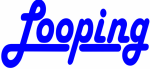
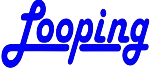
MAJ

Changed region(s): [[0.0, 0.0, 1.0, 0.9855]]

diff --git a/index.html b/index.html
@@ -95,31 +95,31 @@
       <p>Technologies</p>
       <div class="container6">
         <figure>
-          <img class="sizeS" src="images/vscode.jpg" alt="Logo de Visual Studio Code">
+          <img class="sizeS" src="images/vscode.png" alt="Logo de Visual Studio Code">
         </figure>
         <figure>
-          <img class="sizeS" src="images/laragon.jpg" alt="Logo de Laragon">
+          <img class="sizeS" src="images/laragon.png" alt="Logo de Laragon">
         </figure>
         <figure>
-          <img class="sizeS" src="images/figma1.jpg" alt="Logo de Figma">
+          <img class="sizeS" src="images/figma.png" alt="Logo de Figma">
         </figure>
         <figure>
-          <img class="sizeS" src="images/looping.jpg" alt="Logo de Looping">
+          <img class="sizeS" src="images/looping.png" alt="Logo de Looping">
         </figure>
         <figure>
-          <img class="sizeS" src="images/trello.jpg" alt="Logo de Trello">
+          <img class="sizeS" src="images/trello.png" alt="Logo de Trello">
         </figure>
         <figure>
-          <img class="sizeS" src="images/teams.jpg" alt="Logo de Teams">
+          <img class="sizeS" src="images/teams.png" alt="Logo de Teams">
         </figure>
         <figure>
-          <img class="sizeS" src="images/gitgithub.jpg" alt="Logo de Git et de Github">
+          <img class="sizeS" src="images/gitgithub.png" alt="Logo de Git et de Github">
         </figure>
         <figure>
-          <img class="sizeS" src="images/ovh.jpg" alt="Logo de OVH">
+          <img class="sizeS" src="images/ovh.png" alt="Logo de OVH">
         </figure>
         <figure>
-          <img class="sizeS" src="images/webhost.jpg" alt="Logo de 000Webhost">
+          <img class="sizeS" src="images/webhost.png" alt="Logo de 000Webhost">
         </figure>
       </div>
     </section>

diff --git a/style.css b/style.css
@@ -173,7 +173,7 @@ figcaption {
 }
 
 .sizeS {
-    width: 20%;
+    width: 5%;
 }
 
 .sizeM {
@@ -202,7 +202,7 @@ figcaption {
 .container6 img {
     position: sticky;
     width: auto;
-    height: auto;
+    height: 70%;
     object-fit: cover;
     flex-shrink: 0;
     scroll-snap-align: start;
